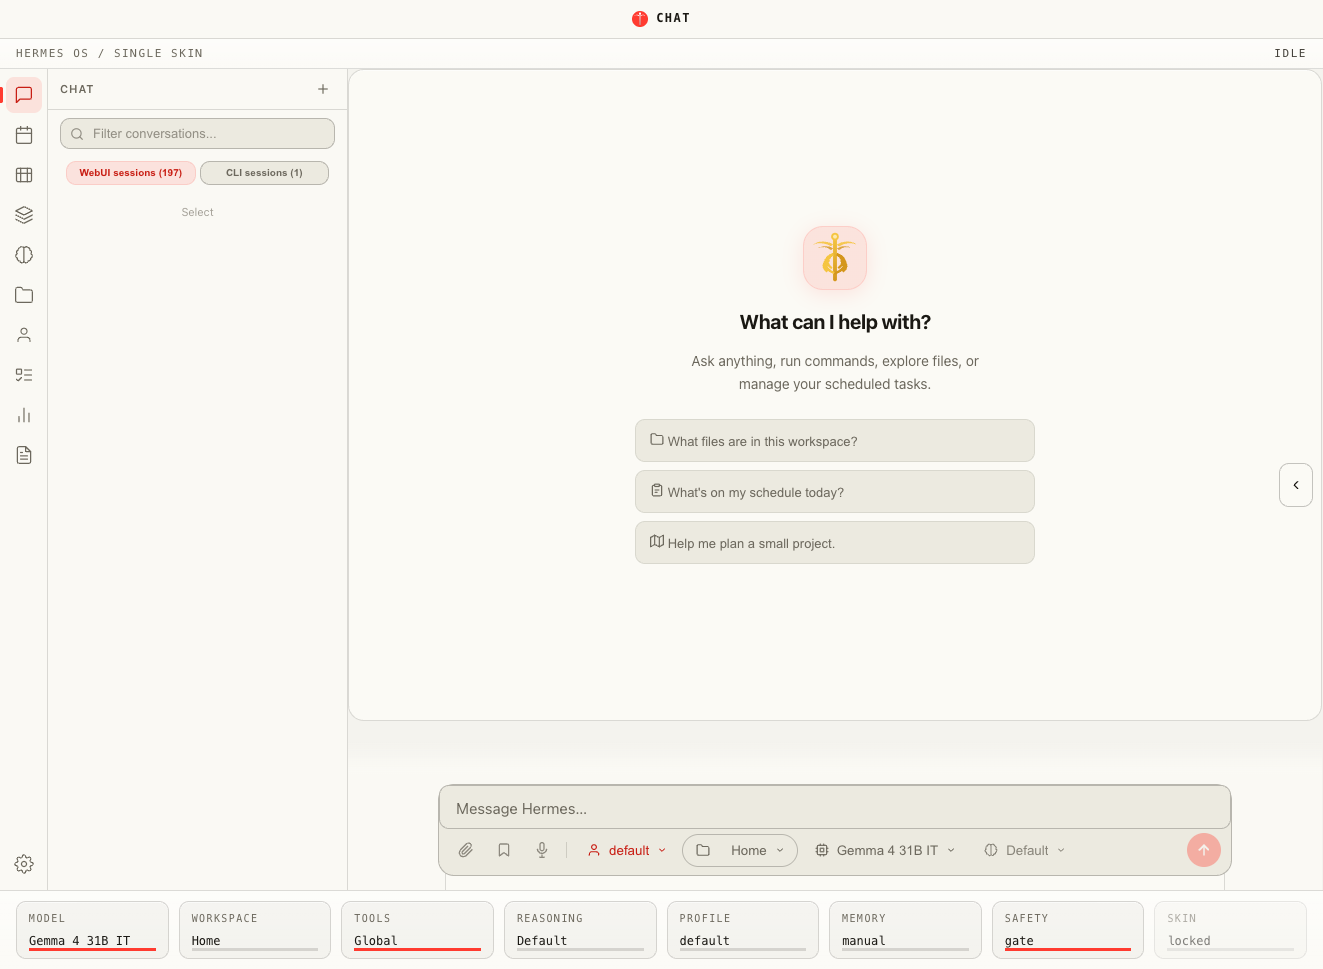
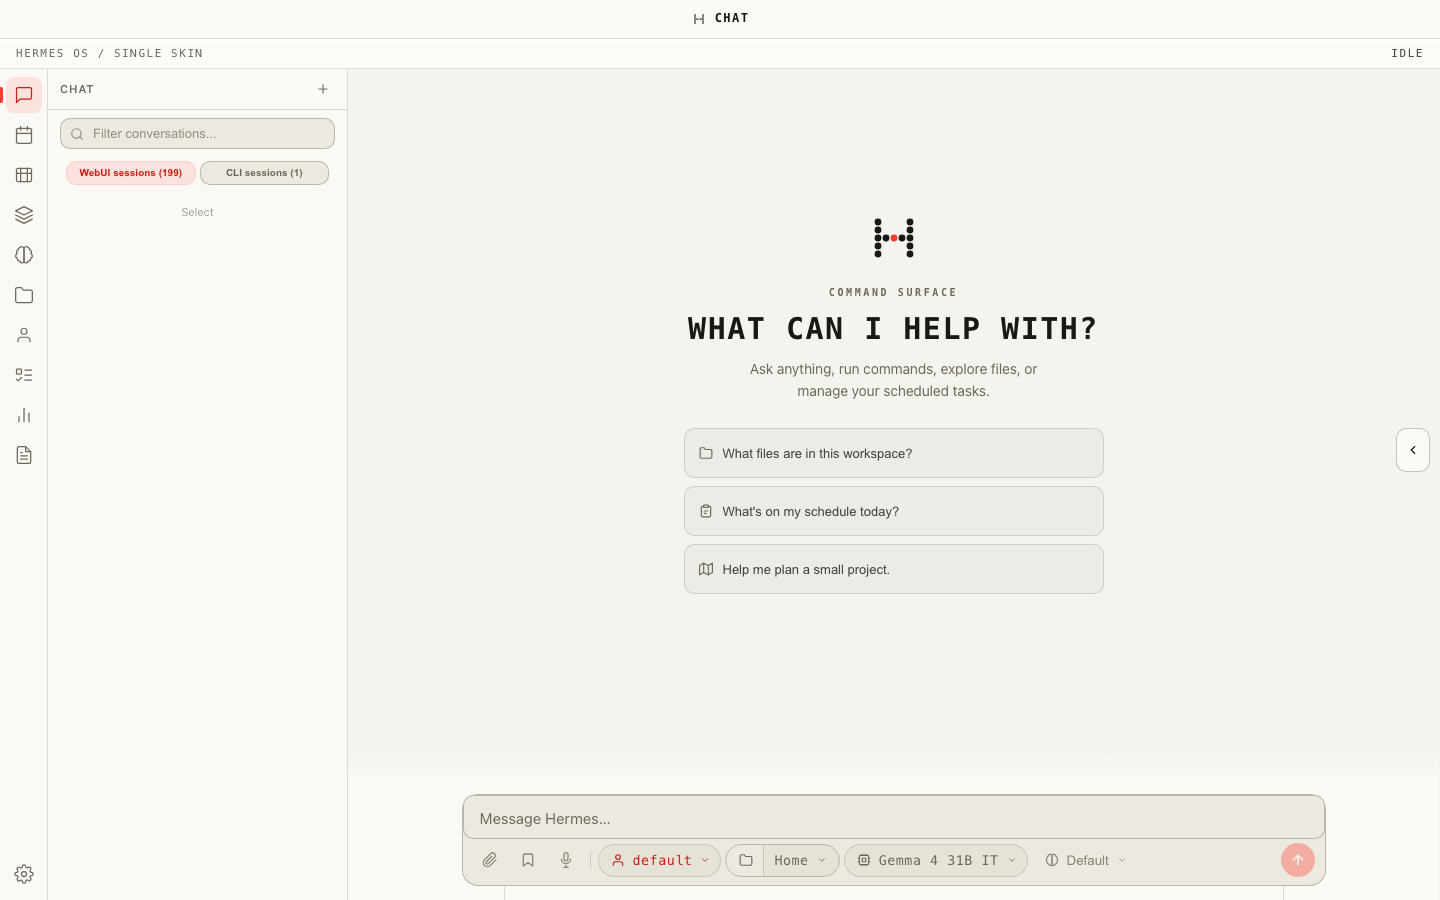
docs(readme): refresh for NothingOS V3 command surface
Update README intro + screenshots to the V3 surface-internal rebuild:
- new dark/light/mobile/kanban captures (assets/screenshots)
- describe the OS command-surface language: 3 typography tiers, red-as-signal,
  ambient status strip, glance widgets, single-surface mobile

diff --git a/README.md b/README.md
@@ -1,21 +1,29 @@
 # Hermes WebUI — NothingOS Edition
 
-A **NothingOS-styled** web interface for [Hermes Agent](https://hermes-agent.nousresearch.com/) —
-dark monochrome, one red accent, dot-matrix identity, ambient status strip and a
-quick-command tray. Built on the stable [nesquena/hermes-webui](https://github.com/nesquena/hermes-webui)
-backend (Python + vanilla JS, no build step, no framework, no bundler).
+A **NothingOS-inspired** web interface for [Hermes Agent](https://hermes-agent.nousresearch.com/) —
+a dark monochrome **command surface**, not a recoloured chat app. One red accent
+used as a signal, dot-matrix identity, an ambient status strip that expresses
+agent state as light, and OS-style glance widgets. Built on the stable
+[nesquena/hermes-webui](https://github.com/nesquena/hermes-webui) backend
+(Python + vanilla JS — no build step, no framework, no bundler).
 
-![NothingOS WebUI — dark](assets/screenshots/nothingos-dark.png)
+![NothingOS WebUI — dark command surface](assets/screenshots/nothingos-dark.png)
 
 <table>
   <tr>
     <td width="50%" align="center">
-      <img alt="Dark theme" src="assets/screenshots/nothingos-dark.png" /><br />
-      <sub>Dark theme (default)</sub>
+      <img alt="Light theme" src="assets/screenshots/nothingos-light.png" /><br />
+      <sub>Light theme — same design language, inverted surfaces</sub>
     </td>
     <td width="50%" align="center">
-      <img alt="Light theme" src="assets/screenshots/nothingos-light.png" /><br />
-      <sub>Light theme</sub>
+      <img alt="Kanban route with collapsed Filters &amp; Dispatch" src="assets/screenshots/nothingos-kanban.png" /><br />
+      <sub>Kanban route — advanced filters collapse into a disclosure</sub>
+    </td>
+  </tr>
+  <tr>
+    <td align="center" colspan="2">
+      <img alt="Mobile single-surface layout at 390px" src="assets/screenshots/nothingos-mobile.png" width="300" /><br />
+      <sub>Mobile — every route is a full-width single surface (390px, no overflow)</sub>
     </td>
   </tr>
 </table>
@@ -24,11 +32,24 @@ backend (Python + vanilla JS, no build step, no framework, no bundler).
 
 ## What's different in this edition
 
-- **One design language — NothingOS.** Dark monochrome surfaces, a single red
-  accent, dot-matrix texture, an **ambient status strip** (top) and a **quick
-  command tray** (bottom). The 16 legacy skins are removed.
-- **Light / Dark toggle.** A simple two-button switch in **Settings → Appearance**
-  (default **Dark**, your choice is remembered). No "System/auto" mode, no skins.
+- **One design language — NothingOS, rebuilt inside every surface.** Not a CSS
+  overlay on the old shell: the content, typography and interaction layer of each
+  route was rebuilt into an OS command surface. Three typography tiers (display /
+  body sans / technical mono), depth from borders and nesting (no drop shadows),
+  and a controlled dot-matrix identity.
+- **Red is a signal, not paint.** At most one primary red block per page; code
+  chips are neutral by default; a selected row shows a thin red index, never a
+  red wash.
+- **Ambient status strip.** The top strip expresses agent state as light —
+  idle, thinking (dot ripple), tool-running (segmented strip), waiting-approval
+  (red breathing), error, complete (white sweep) — instead of a noisy banner.
+- **Glance widgets.** Current run, model, pending approvals and next cron read
+  from live state in the workspace panel (feed-only — no extra API calls).
+- **Light / Dark toggle.** A two-button switch in **Settings → Appearance**
+  (default **Dark**, remembered). One skin only — no "System/auto", no legacy
+  skins, and old `skin`/`theme` values in your browser cannot change it back.
+- **Single-surface mobile.** At phone width every route is full width with no
+  horizontal overflow; filters and controls collapse into disclosures/sheets.
 - **Four extra features** carried over from the Tungbillee fork:
   - `GET /api/agent-configs` — inspect/edit agent model & memory config
   - `GET /api/dash/cost` — per-agent token cost
@@ -36,7 +57,7 @@ backend (Python + vanilla JS, no build step, no framework, no bundler).
   - `GET|POST /api/library/*` — per-team document library
 - **No React SPA, no `/v2` route** — `/` serves the static shell directly.
 - **Everything else** (chat, sessions, workspace browser, profiles, cron, skills,
-  memory, voice, mobile layout) comes from the stable upstream and works as-is.
+  memory, voice) comes from the stable upstream and works as-is.
 
 ---
 